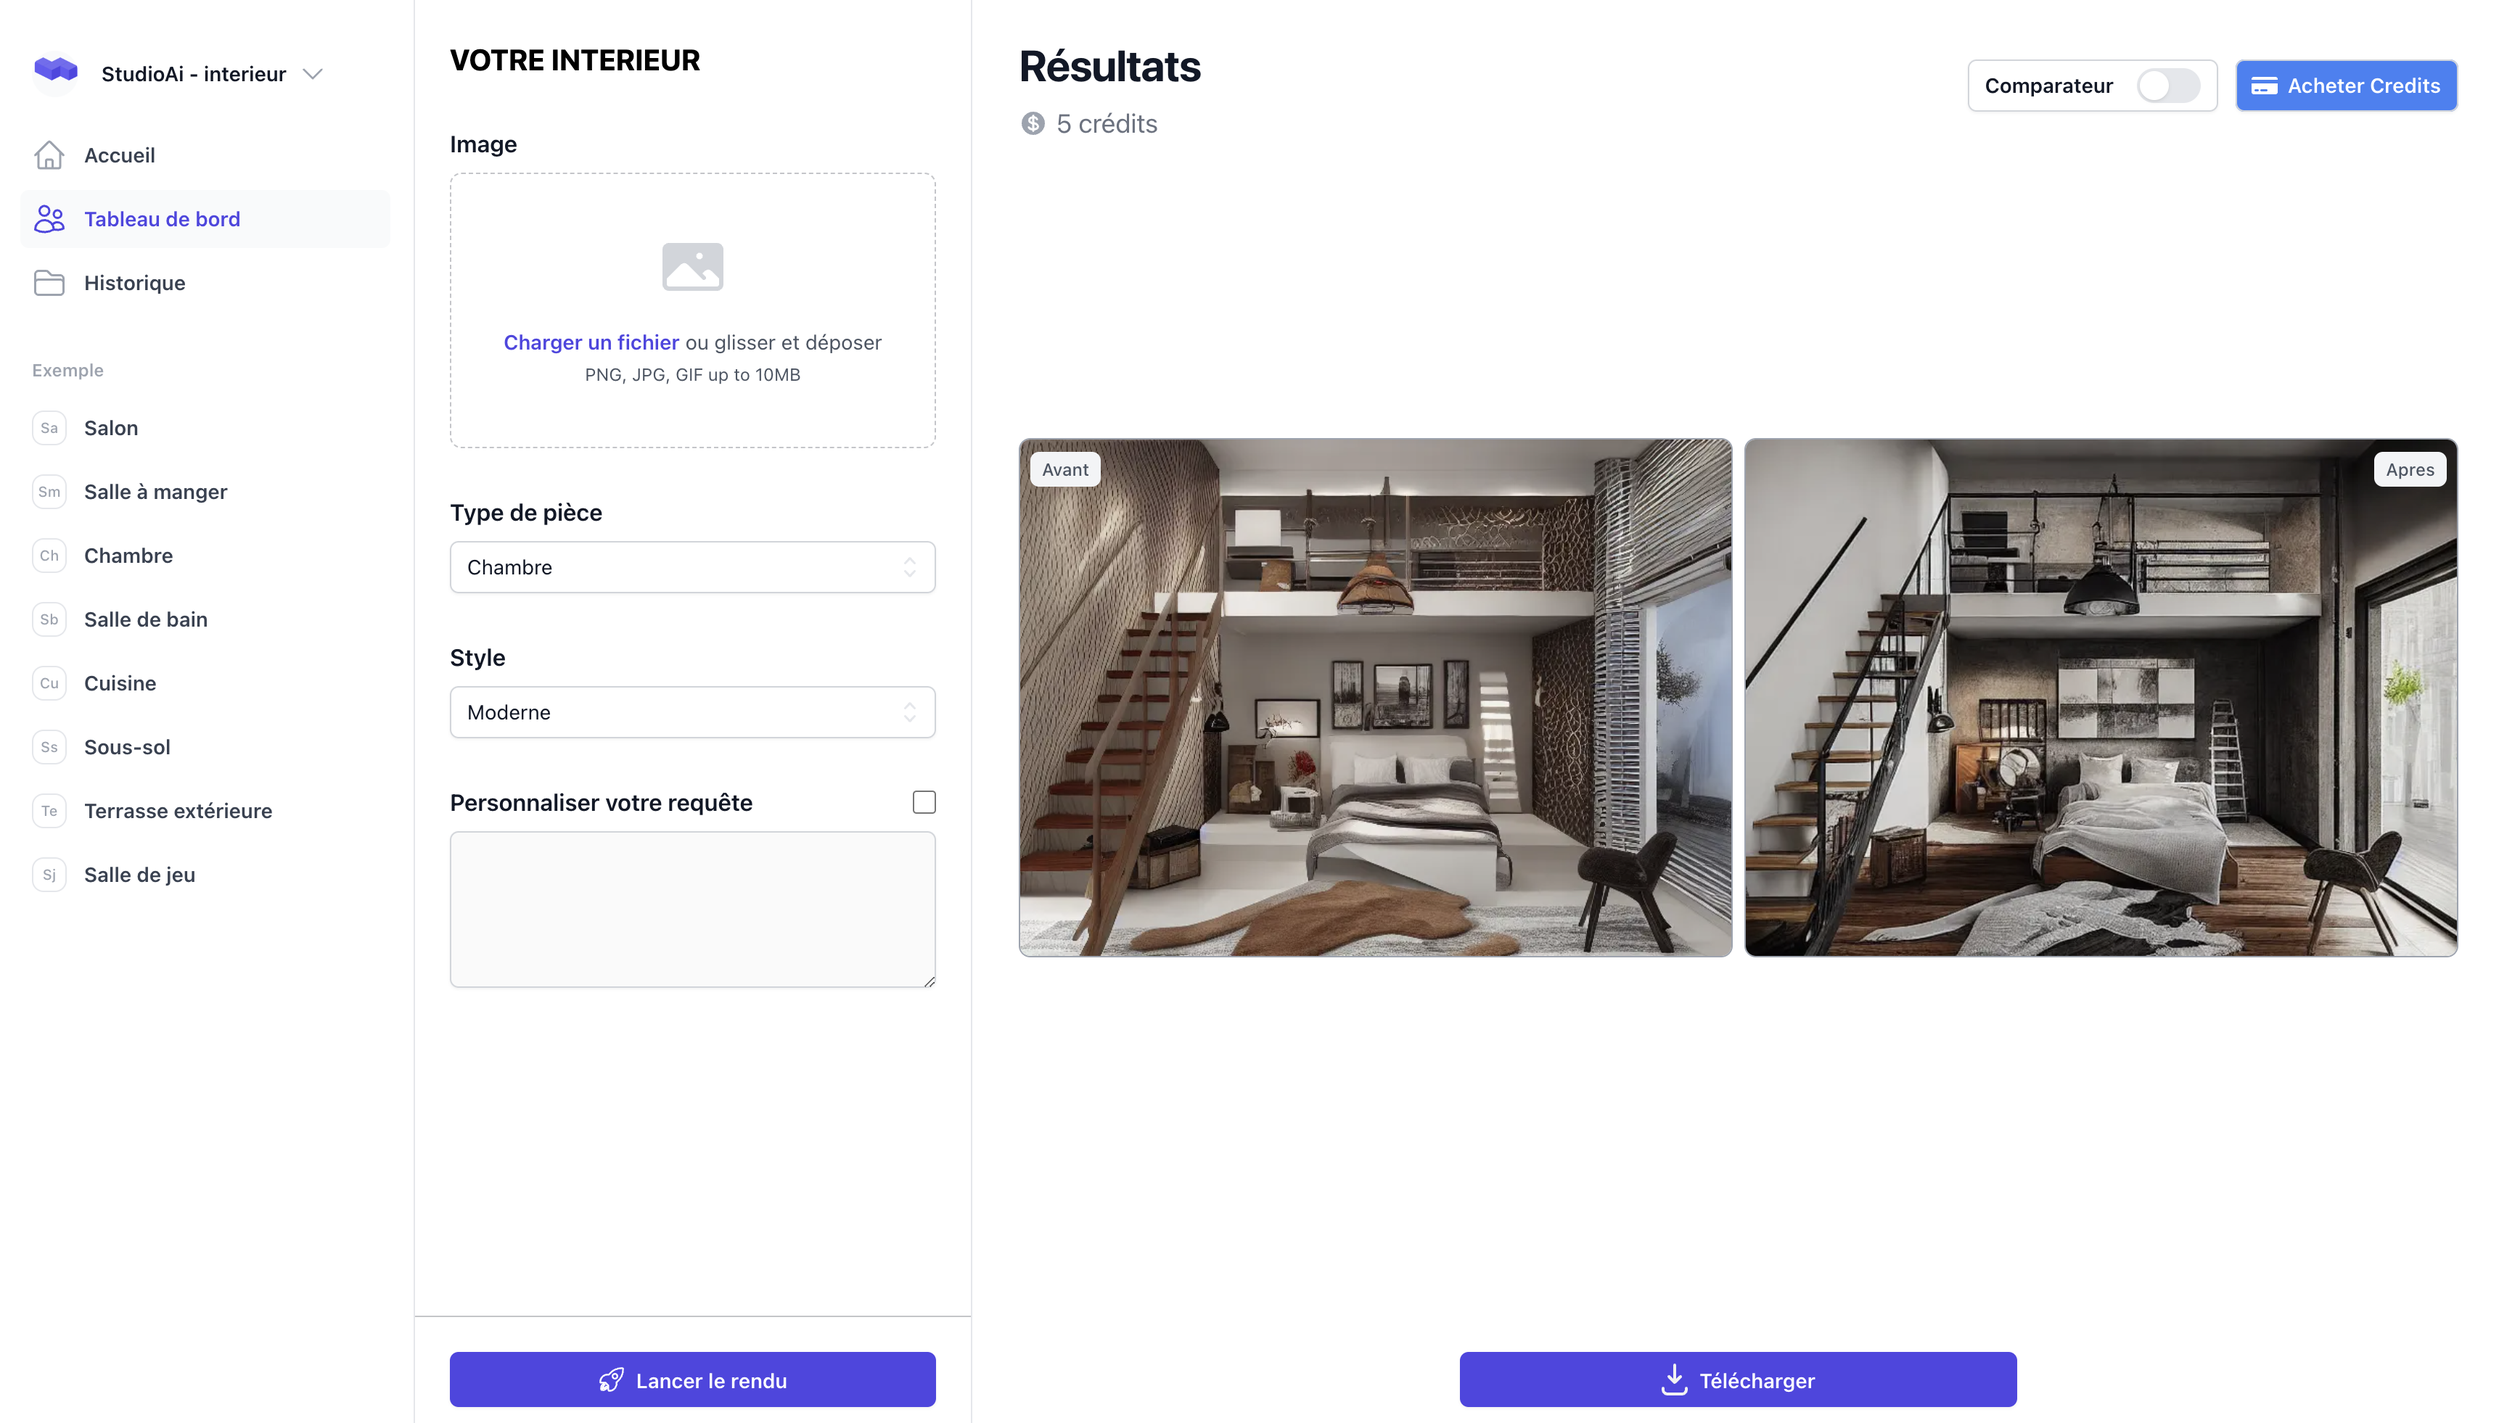
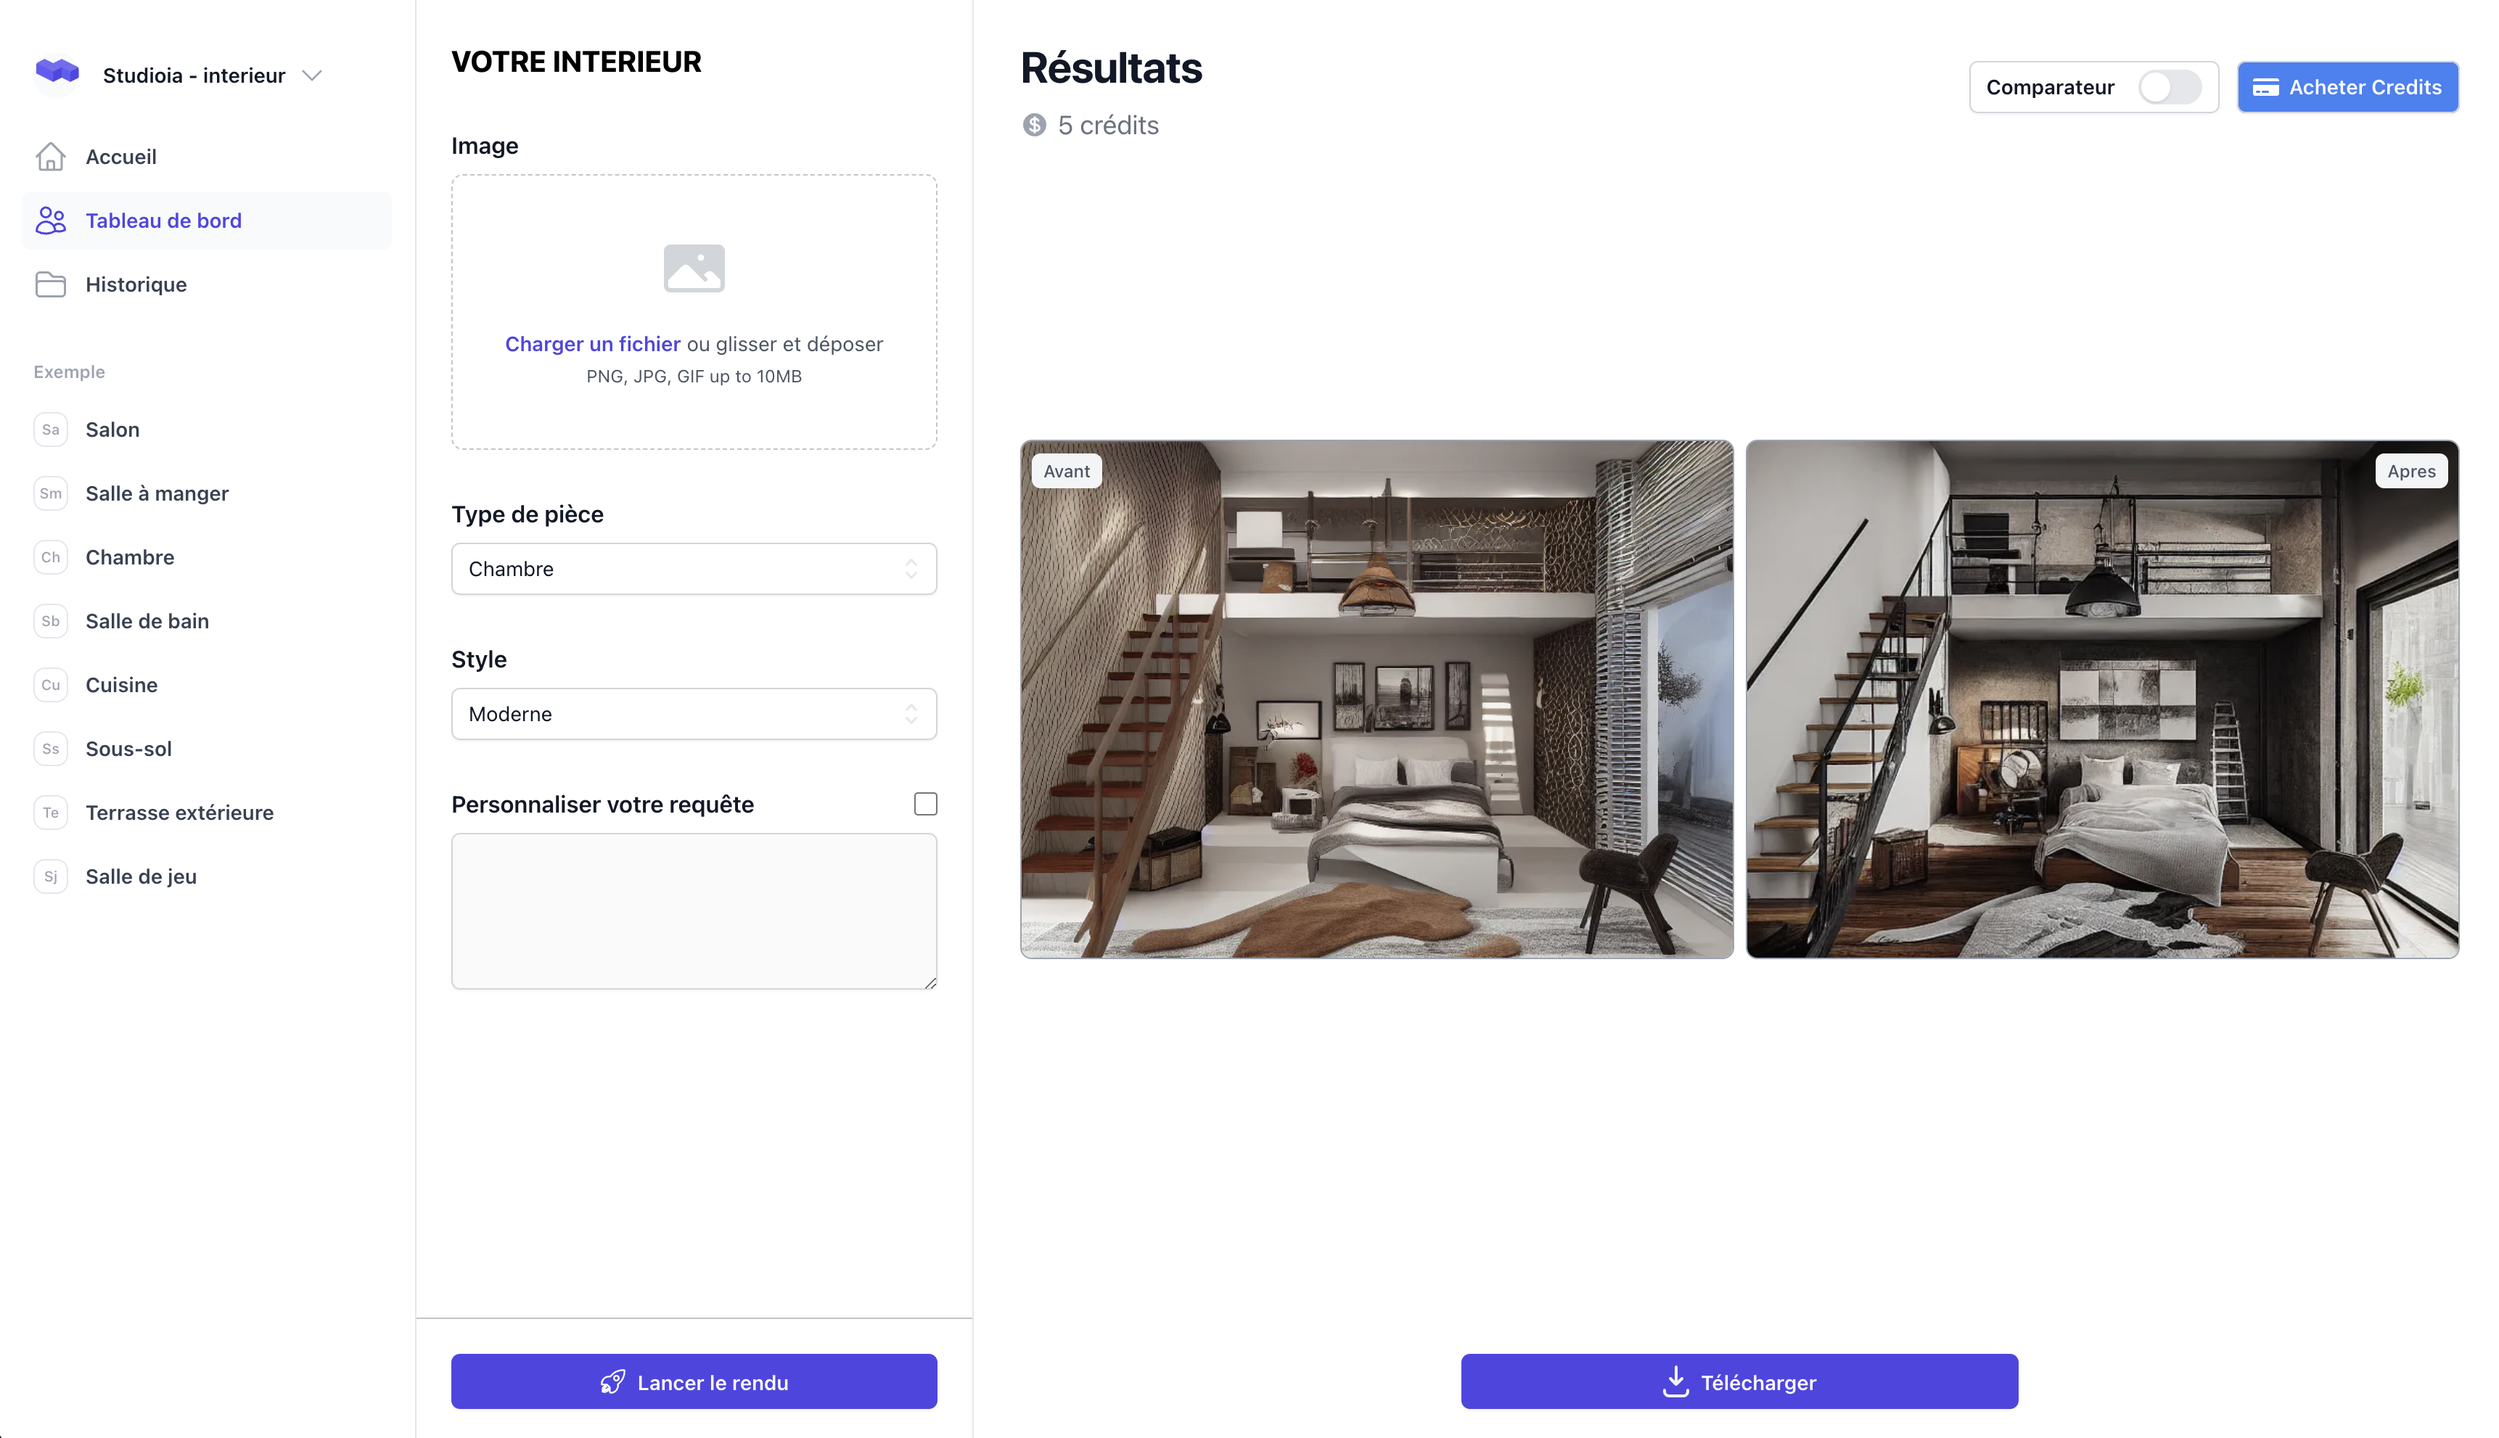
Bug Fixed

diff --git a/components/historiqueAchat/Orderhistorique.jsx b/components/historiqueAchat/Orderhistorique.jsx
@@ -39,7 +39,7 @@ export default function OrderHistorique() {
   const [errorMessage, setErrorMessage] = useState("");
 
   const [paid, setPaid] = useState(false);
-  const [loading, setLoading] = useState(false);
+  const [loading, setLoading] = useState(Array(dataIn.length).fill(false));
 
   const [openModale, setOpenModale] = useState(false);
 
@@ -128,10 +128,14 @@ export default function OrderHistorique() {
     handleGetData();
   }, []);
 
-  const handleCheckout = async (event, priceId, userEmail, buttonName) => {
+  const handleCheckout = async (event, priceId, userEmail, buttonIndex) => {
     event.preventDefault();
 
-    setLoading(true);
+    setLoading((prevState) => {
+      const newState = [...prevState];
+      newState[buttonIndex] = true;
+      return newState;
+    });
 
     setErrorMessage("");
 
@@ -161,7 +165,10 @@ export default function OrderHistorique() {
       } catch (error) {
         setErrorMessage(error.message);
       } finally {
-        setLoading(false);
+        setLoading((prevState) => ({
+          ...prevState,
+          [buttonName]: false,
+        }));
       }
     } else if (blockage === true) {
       toast.error("Vous avez êtés bloqué, veuillez contacter le support");
@@ -326,24 +333,31 @@ export default function OrderHistorique() {
                       <button
                         type="button"
                         onClick={(event) =>
-                          handleCheckout(event, p1, user.email, "button2")
+                          handleCheckout(event, p1, user.email, index)
                         }
-                        disabled={loading}
-                        className="flex w-full items-center justify-center rounded-md border border-transparent bg-indigo-600 px-2.5 py-2 text-sm font-medium text-white shadow-sm hover:bg-indigo-700 focus:outline-none focus:ring-2 focus:ring-indigo-500 focus:ring-offset-2 sm:w-full sm:flex-grow-0"
+                        disabled={loading[index]}
+                        className="flex w-full items-center justify-center rounded-md border border-transparent bg-indigo-600 px-2.5 py-2 text-sm font-medium text-white shadow-sm hover:bg-indigo-700 gap-4 focus:outline-none focus:ring-2 focus:ring-indigo-500 focus:ring-offset-2 sm:w-full sm:flex-grow-0"
                       >
-                        {loading ? "Chargement..." : "Acheter à nouveau"}
+                        {loading[index] ? "Chargement" : "Acheter à nouveau"}
+                        {loading[index] ?<div className="download-loader text-white"/> :<></>}
+
                       </button>
                     )}
                     {item.Credit == "100" && (
                       <button
                         type="button"
                         onClick={(event) =>
-                          handleCheckout(event, p2, user.email, "button2")
+                          handleCheckout(event, p2, user.email, index)
                         }
-                        disabled={loading}
-                        className="flex w-full items-center justify-center rounded-md border border-transparent bg-indigo-600 px-2.5 py-2 text-sm font-medium text-white shadow-sm hover:bg-indigo-700 focus:outline-none focus:ring-2 focus:ring-indigo-500 focus:ring-offset-2 sm:w-full sm:flex-grow-0"
+                        disabled={loading[index]}
+                        className="flex w-full items-center justify-center rounded-md border border-transparent bg-indigo-600 px-2.5 py-2 gap-4 text-sm font-medium text-white shadow-sm hover:bg-indigo-700 focus:outline-none focus:ring-2 focus:ring-indigo-500 focus:ring-offset-2 sm:w-full sm:flex-grow-0"
                       >
-                        {loading ? "Chargement..." : "Acheter à nouveau"}
+                             
+                             {loading[index] ? "Chargement" : "Acheter à nouveau"}
+                        {loading[index] ?<div className="download-loader text-white"/> :<></>}
+
+       
+      
                       </button>
                     )}
 
@@ -351,12 +365,17 @@ export default function OrderHistorique() {
                       <button
                         type="button"
                         onClick={(event) =>
-                          handleCheckout(event, p3, user.email, "button2")
+                          handleCheckout(event, p3, user.email, index)
                         }
-                        disabled={loading}
-                        className="flex w-full items-center justify-center rounded-md border border-transparent bg-indigo-600 px-2.5 py-2 text-sm font-medium text-white shadow-sm hover:bg-indigo-700 focus:outline-none focus:ring-2 focus:ring-indigo-500 focus:ring-offset-2 sm:w-full sm:flex-grow-0"
+                        disabled={loading[index]}
+                        className="flex w-full items-center justify-center rounded-md border border-transparent bg-indigo-600 gap-4 px-2.5 py-2 text-sm font-medium text-white shadow-sm hover:bg-indigo-700 focus:outline-none focus:ring-2 focus:ring-indigo-500 focus:ring-offset-2 sm:w-full sm:flex-grow-0"
                       >
-                        {loading ? "Chargement..." : "Acheter à nouveau"}
+                  
+                  
+
+                  {loading[index] ? "Chargement" : "Acheter à nouveau"}
+                        {loading[index] ?<div className="download-loader text-white"/> :<></>}
+
                       </button>
                     )}
 

diff --git a/components/dashboardui/dashboard.jsx b/components/dashboardui/dashboard.jsx
@@ -1048,6 +1048,7 @@ export default function Dashboard() {
               <button
                 className="download-button buttol transform active:scale-95 rounded-md bg-indigo-600 px-3.5 py-2.5 text-sm font-semibold text-white shadow-sm hover:bg-indigo-500 focus-visible:outline focus-visible:outline-2 focus-visible:outline-offset-2 focus-visible:outline-indigo-600 hover:bg-blue-400 text-white px-[0.30rem] py-[0.50rem] rounded-lg font-bold  md:w-96"
                 type="submit"
+                disabled={isDownloading}
               >
                 <div className="flex justify-center items-center relative">
                   <div className="svg-container">
@@ -1125,14 +1126,14 @@ export default function Dashboard() {
 
               {navig &&
                 (!swiper ? (
-                  <div className="flex flex-col mt-8 gap-8 justify-center items-center w-full overflow-y-auto min-h-[700px]">
+                  <div className="flex flex-col mt-8 gap-8 justify-center items-center w-full overflow-y-auto min-h-[35em]">
                     <Rendu
                       imageBefore={imageBeforedOn}
                       imageAfter={prediction}
                     />
                   </div>
                 ) : (
-                  <div className="flex mt-8 justify-center overflow-y-auto items-center w-full min-h-[700px]">
+                  <div className="flex mt-8 justify-center overflow-y-auto items-center w-full min-h-[35em]">
                     <ImageComparaison
                       imageBefore={imageBeforedOn}
                       imageAfter={prediction}

diff --git a/components/pricing/Pricing.jsx b/components/pricing/Pricing.jsx
@@ -225,12 +225,15 @@ export default function Pricing({ id }) {
                   aria-describedby={tier.id}
                   className={classNames(
                     tier.mostPopular
-                      ? "bg-indigo-600 text-white shadow-sm hover:bg-indigo-500"
-                      : "text-indigo-600 ring-1 ring-inset ring-indigo-200 hover:ring-indigo-300",
-                    "mt-8 block rounded-md py-2 px-3 text-center text-sm font-semibold leading-6 focus-visible:outline focus-visible:outline-2 focus-visible:outline-offset-2 focus-visible:outline-indigo-600"
+                      ? "bg-indigo-600 text-white shadow-sm hover:bg-indigo-500 flex items-center justify-center gap-4"
+                      : "text-indigo-600 ring-1 ring-inset ring-indigo-200 hover:ring-indigo-300 flex items-center justify-center gap-4",
+                    "mt-8 block rounded-md py-2 px-3 text-center text-sm font-semibold leading-6  focus-visible:outline focus-visible:outline-2 focus-visible:outline-offset-2 focus-visible:outline-indigo-600 flex items-center justify-center gap-4"
                   )}
                 >
-                  {loading[tier.btn] ? "Chargement..." : "Acheter"}
+                  
+                  {loading[tier.btn] ? "Chargement" : "Acheter"}
+                  {loading[tier.btn] ?<div className={classNames(
+                    tier.mostPopular ? "download-loader text-white" :"download-loader-purple text-black" )}/> : <></>}
                 </button>
               ) : (
                 <Link

diff --git a/components/navbar/Navbar.jsx b/components/navbar/Navbar.jsx
@@ -30,11 +30,11 @@ export default function Navbar() {
       >
         <div className="flex lg:flex-1">
           <Link href="/" className="-m-1.5 p-1.5">
-            <span className="sr-only">StudioAi - Interieur</span>
+            <span className="sr-only">Studioia - Interieur</span>
             <Image
               className="h-12 w-auto "
               src={Logo}
-              alt="StudioAi - Interieur Logo"
+              alt="Studioia - Interieur Logo"
             />
           </Link>
         </div>
@@ -108,11 +108,11 @@ export default function Navbar() {
               onClick={() => setMobileMenuOpen(false)}
               className="-m-1.5 p-1.5"
             >
-              <span className="sr-only">ProHead</span>
+              <span className="sr-only">Studioia - interieur</span>
               <Image
               className="h-12 w-auto "
               src={Logo}
-              alt="StudioAi - Interieur Logo"
+              alt="Studioia - Interieur Logo"
             />
             </Link>
             {user ? (

diff --git a/components/navbar/NavbarDash.jsx b/components/navbar/NavbarDash.jsx
@@ -30,11 +30,11 @@ export default function Navbar() {
       >
         <div className="flex lg:flex-1">
           <Link href="/" className="-m-1.5 p-1.5">
-            <span className="sr-only">StudioAi - Interieur</span>
+            <span className="sr-only">Studioia - Interieur</span>
             <Image
               className="h-12 w-auto "
               src={Logo}
-              alt="StudioAi - Interieur Logo"
+              alt="Studioia - Interieur Logo"
             />
           </Link>
         </div>
@@ -108,11 +108,11 @@ export default function Navbar() {
               onClick={() => setMobileMenuOpen(false)}
               className="-m-1.5 p-1.5"
             >
-              <span className="sr-only">ProHead</span>
+              <span className="sr-only">Studioia</span>
               <Image
                 className="h-12 w-auto "
                 src={Logo}
-                alt="StudioAi - Interieur Logo"
+                alt="Studioia - Interieur Logo"
               />
             </Link>
             {user ? (

diff --git a/components/faq/Faq.jsx b/components/faq/Faq.jsx
@@ -27,7 +27,7 @@ const faqs = [
   {
   id: 6,
   question: "Comment optimiser une demande personnalisée ?",
-  answer: "Pour optimiser une demande personnalisée, utilisez des mots clés spécifiques et détaillés en anglais. Par exemple, au lieu de demander simplement 'design d'intérieur', spécifiez 'design d'intérieur moderne avec une palette de couleurs neutres et des meubles en bois'. Cela nous aidera à mieux comprendre vos goûts et à créer un design qui correspond parfaitement à vos attentes.",
+  answer: "Pour optimiser une demande personnalisée, utilisez des mots clés spécifiques et détaillés en anglais. Par exemple, au lieu de demander simplement 'Chambre moderne', spécifiez 'Chambre moderne avec une palette de couleurs neutres et des meubles en bois'. Cela nous aidera à mieux comprendre vos goûts et à créer un design qui correspond parfaitement à vos attentes.",
   },
   // More questions...
   ];

diff --git a/components/dashboardui/utils/Historique.jsx b/components/dashboardui/utils/Historique.jsx
@@ -100,7 +100,7 @@ export default function Historique() {
     <div>
       <div className="flex flex-col items-center justify-center py-4 md:py-8 w-full">
         {dataUrls.length > 0 ? (
-          <div>
+          <div className="max-h-[100vh] overflow-x-none overflow-y-auto">
             {dataUrls.map((item) => (
               <div key={item.id} className="mt-16 md:mt-2">
                 <div className="mx-auto mt-6 md:mt-8 grid max-w-2xl grid-cols-1 gap-x-6 gap-y-6 md:grid-cols-2 lg:mx-0 lg:max-w-none">

diff --git a/styles/globals.css b/styles/globals.css
@@ -112,6 +112,16 @@ html {
   opacity: 0;
   animation: button-loading-spinner 1s ease infinite;
 }
+
+.download-loader-purple {
+  width: 13px;
+  height: 13px;
+  border: 2px solid transparent;
+  border-top-color:  rgb(79, 70, 229);
+  border-radius: 50%;
+  opacity: 0;
+  animation: button-loading-spinner 1s ease infinite;
+}
 @keyframes button-loading-spinner {
   from {
     transform: rotate(0turn);
